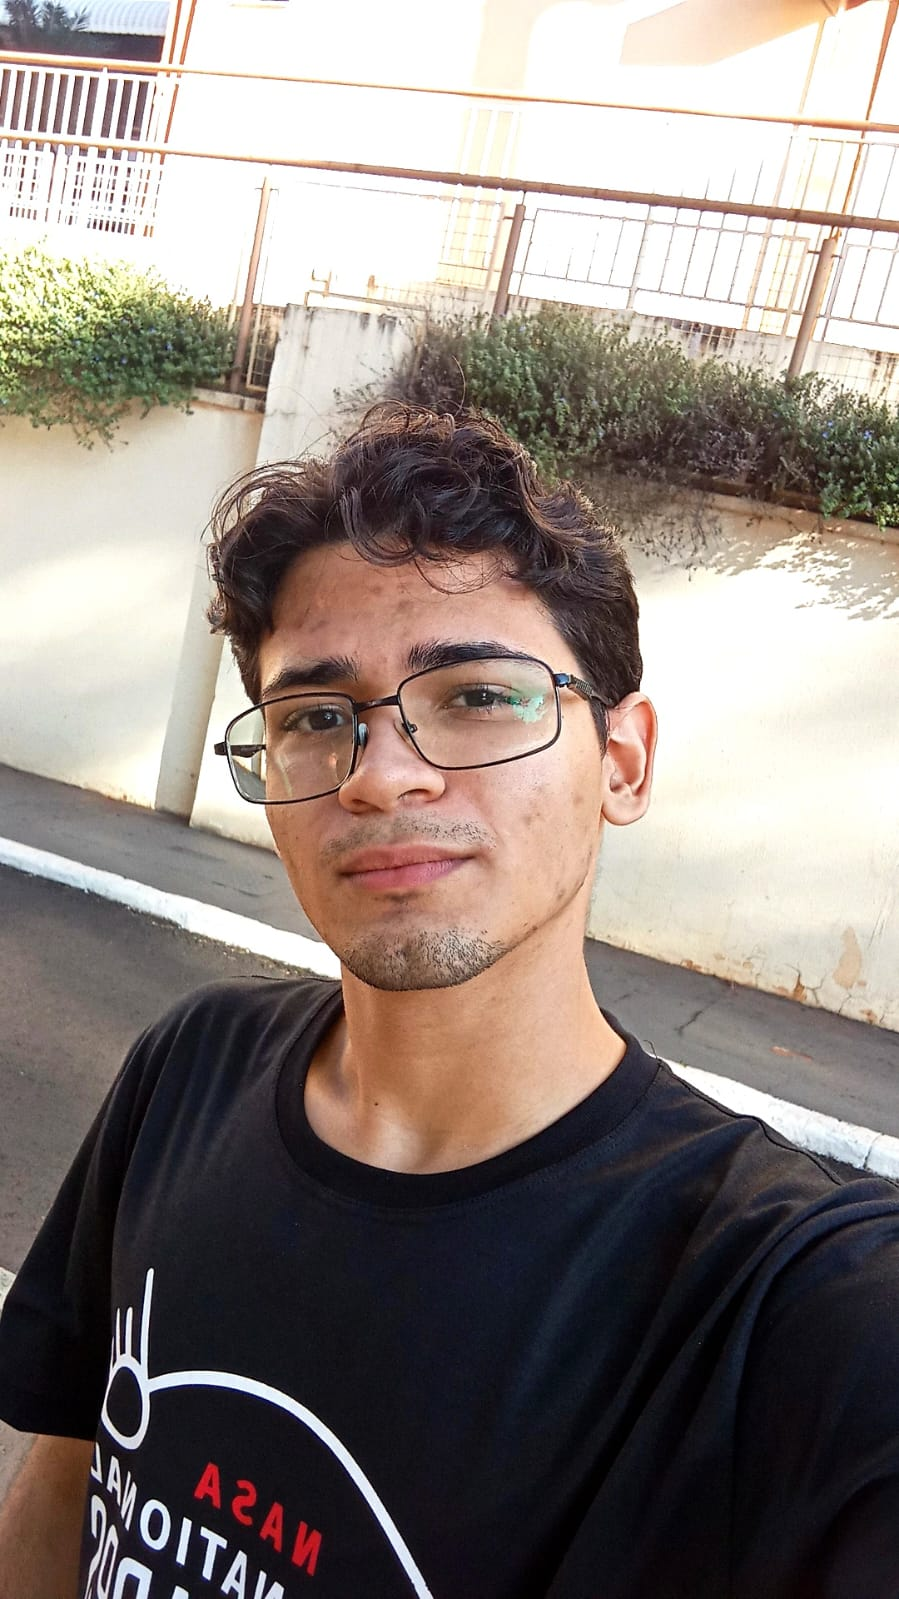
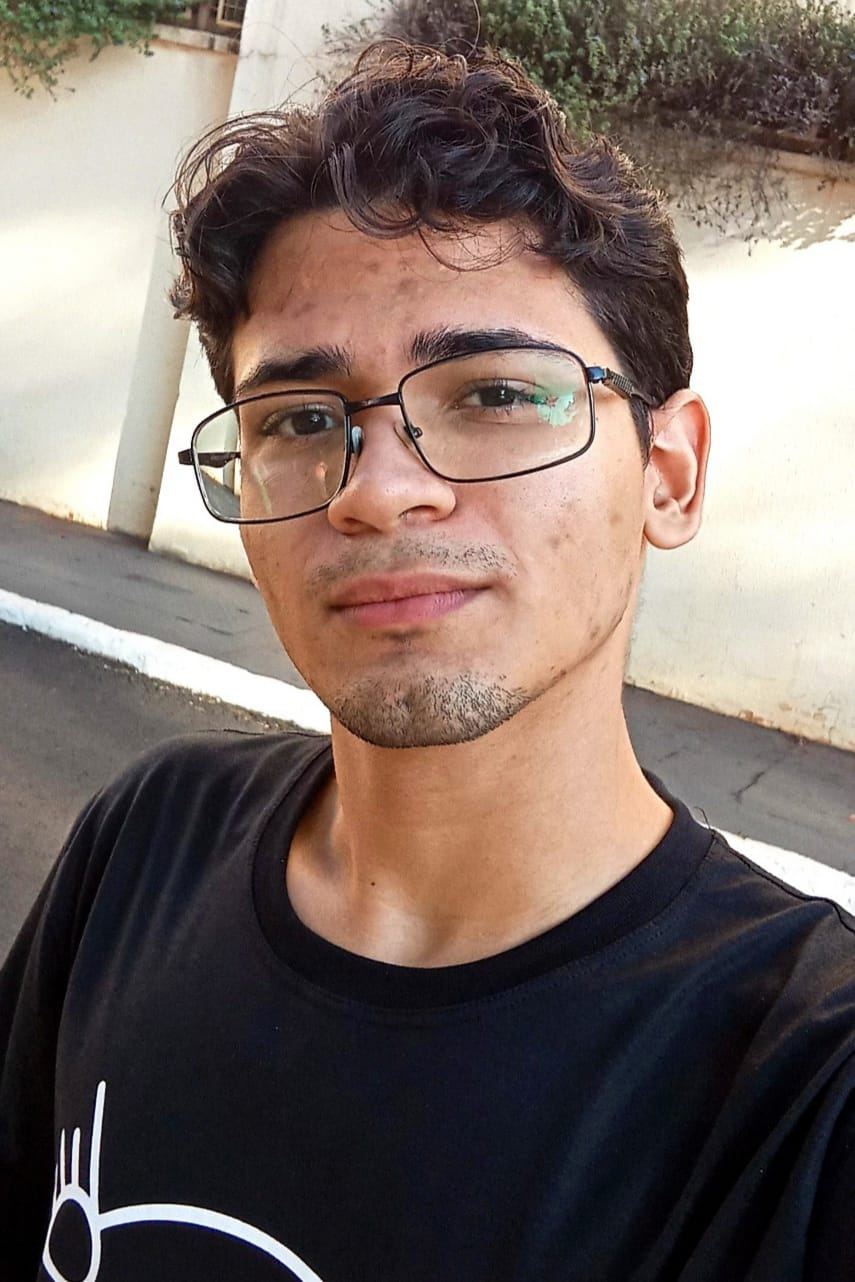
commit

diff --git a/index.html b/index.html
@@ -78,13 +78,49 @@
                         </div><!--especialidades-box-->
     
                         <div class="especialidades-box">
-                            <i class="bi bi-wordpress"></i>
+                            <i class="bi bi-chat-square-quote-fill"></i>
                             <h3>Blog</h3>
                             <p>em breve</p>
                         </div><!--especialidades-box-->
                 </div><!--flex-->
             </div><!--interface-->
         </section><!--especialidades-->
+
+        <section class="sobre">
+            <div class="interface">
+                <div class="flex">
+                    <div class="img-sobre">
+                        <img src="images/eu.jpg" alt="minha imagem" width="500" height="500">
+                    </div><!--img-sobre-->
+
+                    <div class="txt-sobre">
+                        <h2>MUITO PRAZER, <span>SOU ENZO DOS SANTOS.</span></h2>
+                        <p>tenho 18 anos e sou natural de Guarulhos, SP. Atualmente moro em Maringá, PR, e curso Análise e Desenvolvimento de Sistemas na Unicesumar. Desde criança que é apaixonada por tecnologia, sempre busca aprender, desenvolver minhas habilidades e explorar novas possibilidades nessa área.</p>
+                        <p>"Aprender é expandir horizontes, transformar desafios em oportunidades e crescer a cada descoberta."</p>
+                        <div class="btn-social">
+                            <a href="#"><button><i class="bi bi-instagram"></i></button></a>
+                            <a href="#"><button><i class="bi bi-github"></i>
+                            <a href="#"><button><i class="bi bi-linkedin"></i></button></a>
+                        </div><!--btn-social-->
+                    </div><!--txt-sobre-->
+                </div><!--flex-->
+            </div><!--interface-->
+        </section><!--sobre-->
+
+        <section class="formulario">
+            <div class="interface">
+                <h2 class="titulo">FALA <span>COMIGO.</span></h2>
+
+                <form action="">
+                    <input type="text" name="" id="" placeholder="Seu nome completo:" required>
+                    <input type="text" name="" id="" placeholder="Seu e-mail:" required>
+                    <input type="text" name="" id="" placeholder="Seu celular:">
+                    <textarea name="" id="" placeholder="Sua mensagem" required></textarea>
+                    <div class="btn-enviar"><input type="submit" value="ENVIAR"></div>
+                </form>
+            </div><!--interface-->
+        </section><!--formulario-->
+
     </main>
 
 </body>

diff --git a/style.css b/style.css
@@ -117,7 +117,81 @@ section.topo-do-site .flex{
 }
 
 /*estilo das especialidades*/
-section.especialidades{
-    padding: 40px 4%;
+section.especialidades {
+    padding: 80px 4%;
 }
 
+section.especialidades .flex {
+    gap: 60px;
+}
+
+.especialidades .especialidades-box {
+    color: #fff;
+    padding: 40px;
+    border-radius: 20px;
+    border: 2px solid #fff;
+    margin-top: 45px;
+    transition: .2s;
+}
+
+.especialidades .especialidades-box:hover {
+    transform: scale(1.05);
+    box-shadow: 0 0 8px #ffffff78;
+}
+
+.especialidades .especialidades-box i {
+    font-size: 70px;
+    color: blue;
+}
+
+.especialidades .especialidades-box h2 {
+    font-size: 28px;
+    margin: 15px 0;
+}
+
+.especialidades .especialidades-box h3 {
+    font-size: 28px;
+    margin: 15px 0;
+}
+
+/* ESTILO DO SOBRE */
+section.sobre {
+    padding: 80px 4%;
+}
+
+section.sobre .flex {
+    align-items: center;
+    gap: 60px;
+}
+
+.sobre .txt-sobre {
+    color: #fff;
+}
+
+.sobre .txt-sobre h2 {
+    font-size: 40px;
+    line-height: 40px;
+    margin-bottom: 30px;
+}
+
+.sobre .txt-sobre h2 span {
+    color: blue;
+    display: block;
+}
+
+.sobre .txt-sobre p {
+    margin: 20px 0;
+    text-align: justify;
+}
+
+.btn-social button {
+    width: 60px;
+    height: 60px;
+    border-radius: 50%;
+    border: none;
+    background-color: rgba(0, 0, 255, 0.795);
+    font-size: 22px;
+    cursor: pointer;
+    margin: 0 5px;
+    transition: .2s;
+}
